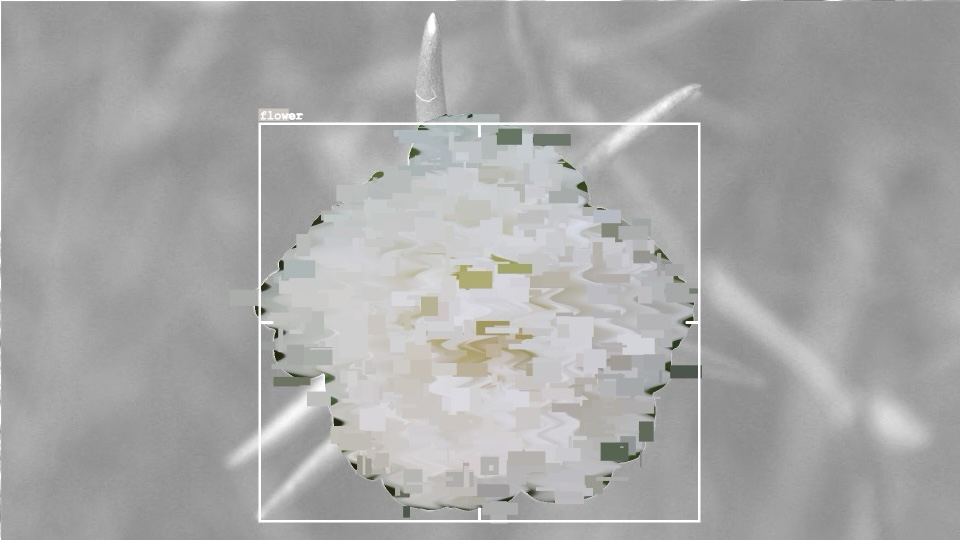
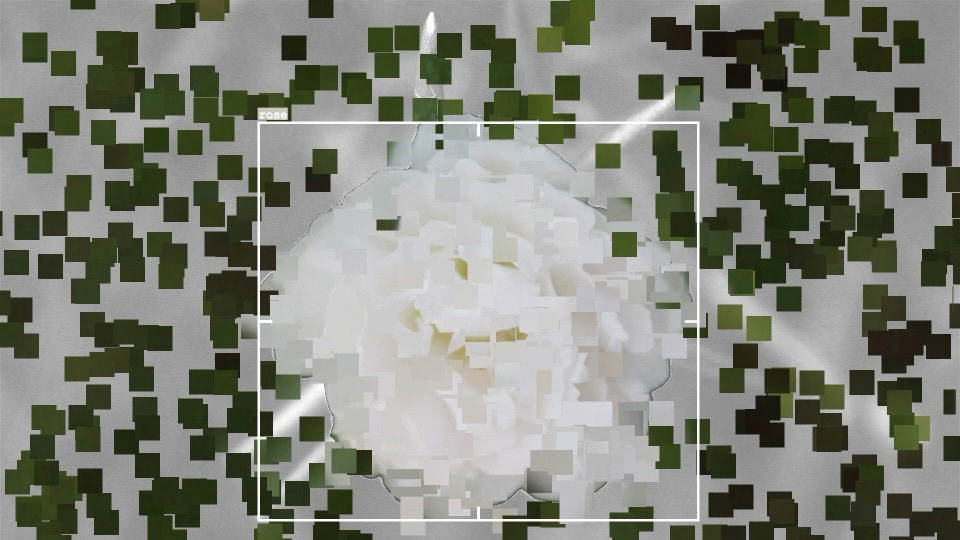
Trying out P5 js copy

diff --git a/sketch.js b/sketch.js
@@ -117,23 +117,8 @@ function draw () {
         colorMode(HSB, 360, 100, 100);
 
         if(maskData[0] > 128) {
-          let rowSize = 25;
-          for (let y= 0; y < height; y = y + rowSize){
-          let sourceX = 0 + random(10);
-          let sourceY = y;
-          let sourceW = width;
-          let sourceH = rowSize;
-          let destX = 0;
-          let  destY = y;
-          let destW = width;
-          let destH = rowSize;
-          // angleMode(DEGREES);
           fill(pixData);
-          // let wave = sin(y*8);
-          // let slip = map(wave, -1, 1, -OFFSET, OFFSET);
-          // pix = sourceImg.get(x+slip, y);
-          set(x, y, destX, destY, destW, destH, sourceX, sourceY, sourceW, sourceH, pixData);
-          }
+          set(x, y, pixData);
         }
         else {
           let c = color(pixData);
@@ -149,15 +134,13 @@ function draw () {
   }
 
   if(curLayer == 1){
-    for(let i=0;i<200;i++) {
+    for(let i=0;i<50;i++) {
       let x1 = random(0, width);
       let y1 = random(0, height);
       let x2 = x1 + random(-75, 75);
       let y2 = y1 + random(-50, 50);
 
       colorMode(RGB);
-      let x = floor(random(sourceImg.width));
-      let y = floor(random(sourceImg.height));
       let pixData = sourceImg.get(x1, y1);
       let maskData = maskImg.get(x1, y1);
       fill(pixData);
@@ -167,6 +150,9 @@ function draw () {
         rectMode(CORNERS);
         rect(x1, y1, x2, y2);
       }
+
+      imageMode(CORNERS);
+      copy(sourceImg, x1, y1, 10, 10, x2, y2, 50, 50);
     }
   }
   
